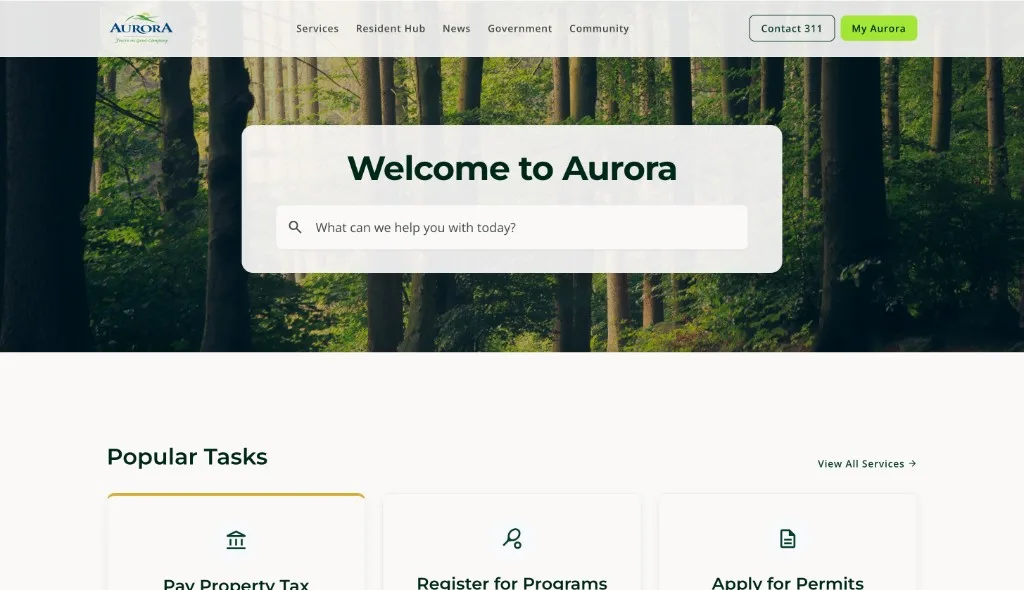
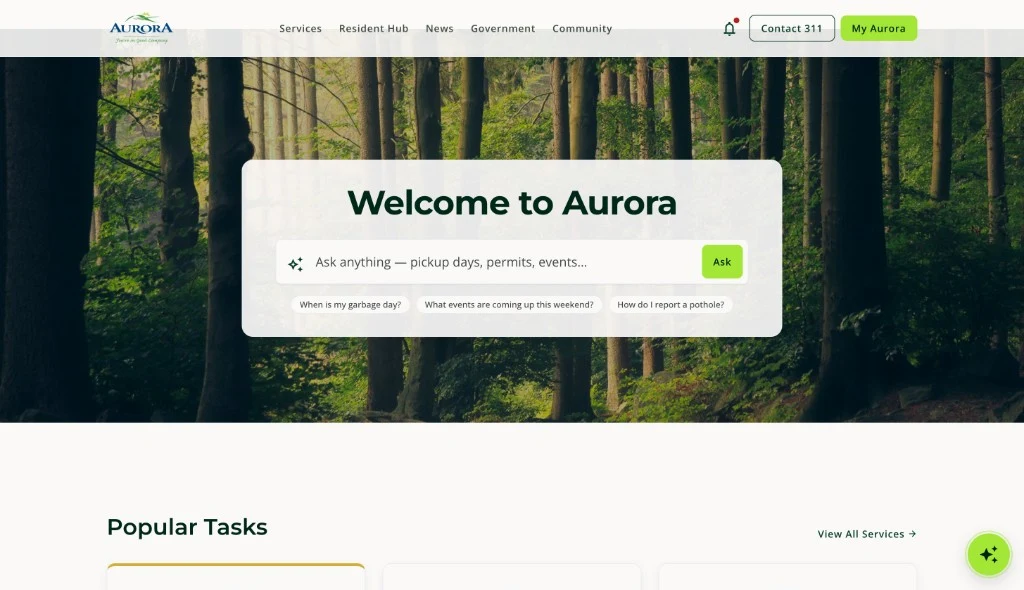
Update municipal website page and pricing copy
Update municipal web showcase assets and page copy. Replaced showcase images (jpg/webp) and changed page content in municipal/web/index.html: rename "Web Apps" to "Website" in breadcrumb, headings and intro; improve image alt text; clarify pricing language to include "/mo"; replace single pricing paragraph with a two-column price grid (Mobile app $75/mo, App + website $150/mo) and billing specs; and update FAQ answers to match the new pricing wording.

diff --git a/municipal/web/index.html b/municipal/web/index.html
@@ -56,7 +56,7 @@
         "itemListElement": [
           { "@type": "ListItem", "position": 1, "name": "Home", "item": "https://localgovy.com/" },
           { "@type": "ListItem", "position": 2, "name": "For Municipalities", "item": "https://localgovy.com/municipal/" },
-          { "@type": "ListItem", "position": 3, "name": "Web Apps", "item": "https://localgovy.com/municipal/web/" }
+          { "@type": "ListItem", "position": 3, "name": "Website", "item": "https://localgovy.com/municipal/web/" }
         ]
       },
       {
@@ -65,7 +65,7 @@
           {
             "@type": "Question",
             "name": "Is this instead of the mobile app?",
-            "acceptedAnswer": { "@type": "Answer", "text": "No. The website and the app draw on the same system. You do not buy the website alone. The $150 plan is the app plus this site. The app alone is $75." }
+            "acceptedAnswer": { "@type": "Answer", "text": "No. The website and the app draw on the same system. You do not buy the website alone. The $150/mo plan is the app plus this site. The app alone is $75/mo." }
           },
           {
             "@type": "Question",
@@ -152,12 +152,12 @@
     </div>
   </header>
 
-  <div class="bg-surface/60 border-b border-line"><div class="mx-auto max-w-7xl px-4 sm:px-6 lg:px-8 py-3 text-xs text-sub flex items-center gap-2"><a href="/" class="hover:text-brand transition">Home</a><span>/</span><a href="/municipal/" class="hover:text-brand transition">For Municipalities</a><span>/</span><span class="text-brand font-medium">Web Apps</span></div></div>
+  <div class="bg-surface/60 border-b border-line"><div class="mx-auto max-w-7xl px-4 sm:px-6 lg:px-8 py-3 text-xs text-sub flex items-center gap-2"><a href="/" class="hover:text-brand transition">Home</a><span>/</span><a href="/municipal/" class="hover:text-brand transition">For Municipalities</a><span>/</span><span class="text-brand font-medium">Website</span></div></div>
 
   <section class="border-b border-line">
     <div class="mx-auto max-w-6xl px-4 sm:px-6 lg:px-8 pt-16 md:pt-20 pb-14 md:pb-16">
       <div class="max-w-3xl">
-        <p class="font-serif text-lg text-gold tracking-tight">Web apps</p>
+        <p class="font-serif text-lg text-gold tracking-tight">Website</p>
         <h1 class="mt-3 font-serif text-4xl md:text-5xl leading-[1.08] tracking-tight text-brand">The municipal website, on the same system as the app</h1>
         <div class="mt-5 h-[3px] w-16 bg-brand" aria-hidden="true"></div>
         <p class="mt-5 text-lg text-ink leading-relaxed">This is a sample of the municipal website — the same content system as the app. Sample build shown here.</p>
@@ -171,7 +171,7 @@
           <div class="browser-shell">
             <div class="browser-bar" aria-hidden="true"><span></span><span></span><span></span></div>
             <div class="browser-screen">
-              <picture><source type="image/webp" srcset="/municipal-web-showcase.webp" /><img src="/municipal-web-showcase.jpg" alt="Sample municipal website home page for Aurora, with search and popular tasks" class="w-full h-auto block" width="1024" height="590" fetchpriority="high" /></picture>
+              <picture><source type="image/webp" srcset="/municipal-web-showcase.webp" /><img src="/municipal-web-showcase.jpg" alt="Sample municipal website for Aurora, with an ask-anything search and popular tasks" class="w-full h-auto block" width="1024" height="590" fetchpriority="high" /></picture>
             </div>
           </div>
         </div>
@@ -196,7 +196,38 @@
   <section class="py-12 md:py-16 bg-surface border-y border-line">
     <div class="mx-auto max-w-3xl px-4 sm:px-6 lg:px-8">
       <h2 class="font-serif text-2xl md:text-3xl text-brand">Price</h2>
-      <p class="mt-3 text-ink leading-relaxed">The website is not sold on its own. <strong class="font-semibold text-ink">$150/mo</strong> is the app plus this site. <strong class="font-semibold text-ink">$75/mo</strong> is the app alone. Billed annually, first month free, no implementation fee, no per-resident fee. The published rate can be locked in for up to five years.</p>
+      <div class="mt-6 grid sm:grid-cols-2 gap-3">
+        <div class="price-col bg-paper">
+          <h3 class="font-serif text-xl text-brand">Mobile app</h3>
+          <p class="mt-1 text-sm text-sub">iOS and Android</p>
+          <p class="mt-3 font-serif text-4xl leading-none text-brand">$75<span class="text-base font-sans text-sub">/mo</span></p>
+        </div>
+        <div class="price-col bg-paper">
+          <h3 class="font-serif text-xl text-brand">App + website</h3>
+          <p class="mt-1 text-sm text-sub">The same app, plus one public site</p>
+          <p class="mt-3 font-serif text-4xl leading-none text-brand">$150<span class="text-base font-sans text-sub">/mo</span></p>
+        </div>
+      </div>
+      <div class="mt-3 panel border border-line bg-paper px-6 md:px-8 py-2">
+        <dl class="bill-spec">
+          <div>
+            <dt>Invoice</dt>
+            <dd>Annual</dd>
+          </div>
+          <div>
+            <dt>First month</dt>
+            <dd>Free</dd>
+          </div>
+          <div>
+            <dt>Extra fees</dt>
+            <dd>None</dd>
+          </div>
+          <div>
+            <dt>Rate lock</dt>
+            <dd>Up to 5 years</dd>
+          </div>
+        </dl>
+      </div>
       <div class="mt-6 flex flex-wrap gap-3">
         <a href="/demo/?type=municipality&product=bundle" class="px-6 py-3 btn btn-primary">Book the bundle</a>
         <a href="/demo/?type=municipality&product=mobile" class="px-6 py-3 btn btn-secondary">Book the app only</a>
@@ -209,7 +240,7 @@
     <div class="mx-auto max-w-3xl px-4 sm:px-6 lg:px-8">
       <h2 class="font-serif text-3xl text-brand mb-8">Questions</h2>
       <div class="divide-y divide-line border-t border-b border-line">
-        <details class="group py-4"><summary class="cursor-pointer flex items-center justify-between font-semibold text-brand py-1">Is this instead of the mobile app?<svg class="transition group-open:rotate-180 flex-shrink-0 ml-3" width="18" height="18" viewBox="0 0 24 24" fill="none"><path d="M6 9l6 6 6-6" stroke="#48514A" stroke-width="1.8"/></svg></summary><p class="mt-3 text-[0.95rem] text-ink/80">No. The website and the app draw on the same system. You do not buy the website alone. The $150 plan is the app plus this site. The app alone is $75.</p></details>
+        <details class="group py-4"><summary class="cursor-pointer flex items-center justify-between font-semibold text-brand py-1">Is this instead of the mobile app?<svg class="transition group-open:rotate-180 flex-shrink-0 ml-3" width="18" height="18" viewBox="0 0 24 24" fill="none"><path d="M6 9l6 6 6-6" stroke="#48514A" stroke-width="1.8"/></svg></summary><p class="mt-3 text-[0.95rem] text-ink/80">No. The website and the app draw on the same system. You do not buy the website alone. The $150/mo plan is the app plus this site. The app alone is $75/mo.</p></details>
         <details class="group py-4"><summary class="cursor-pointer flex items-center justify-between font-semibold text-brand py-1">Will this be customized for our municipality?<svg class="transition group-open:rotate-180 flex-shrink-0 ml-3" width="18" height="18" viewBox="0 0 24 24" fill="none"><path d="M6 9l6 6 6-6" stroke="#48514A" stroke-width="1.8"/></svg></summary><p class="mt-3 text-[0.95rem] text-ink/80">Yes. This screenshot is a sample of the municipal website. We load your departments, services, and colours before residents see anything.</p></details>
         <details class="group py-4"><summary class="cursor-pointer flex items-center justify-between font-semibold text-brand py-1">How fast can I see a demo?<svg class="transition group-open:rotate-180 flex-shrink-0 ml-3" width="18" height="18" viewBox="0 0 24 24" fill="none"><path d="M6 9l6 6 6-6" stroke="#48514A" stroke-width="1.8"/></svg></summary><p class="mt-3 text-[0.95rem] text-ink/80">Within 48 hours of booking we send a working sample in your town's name and colours. Typical launch is about two weeks.</p></details>
       </div>
